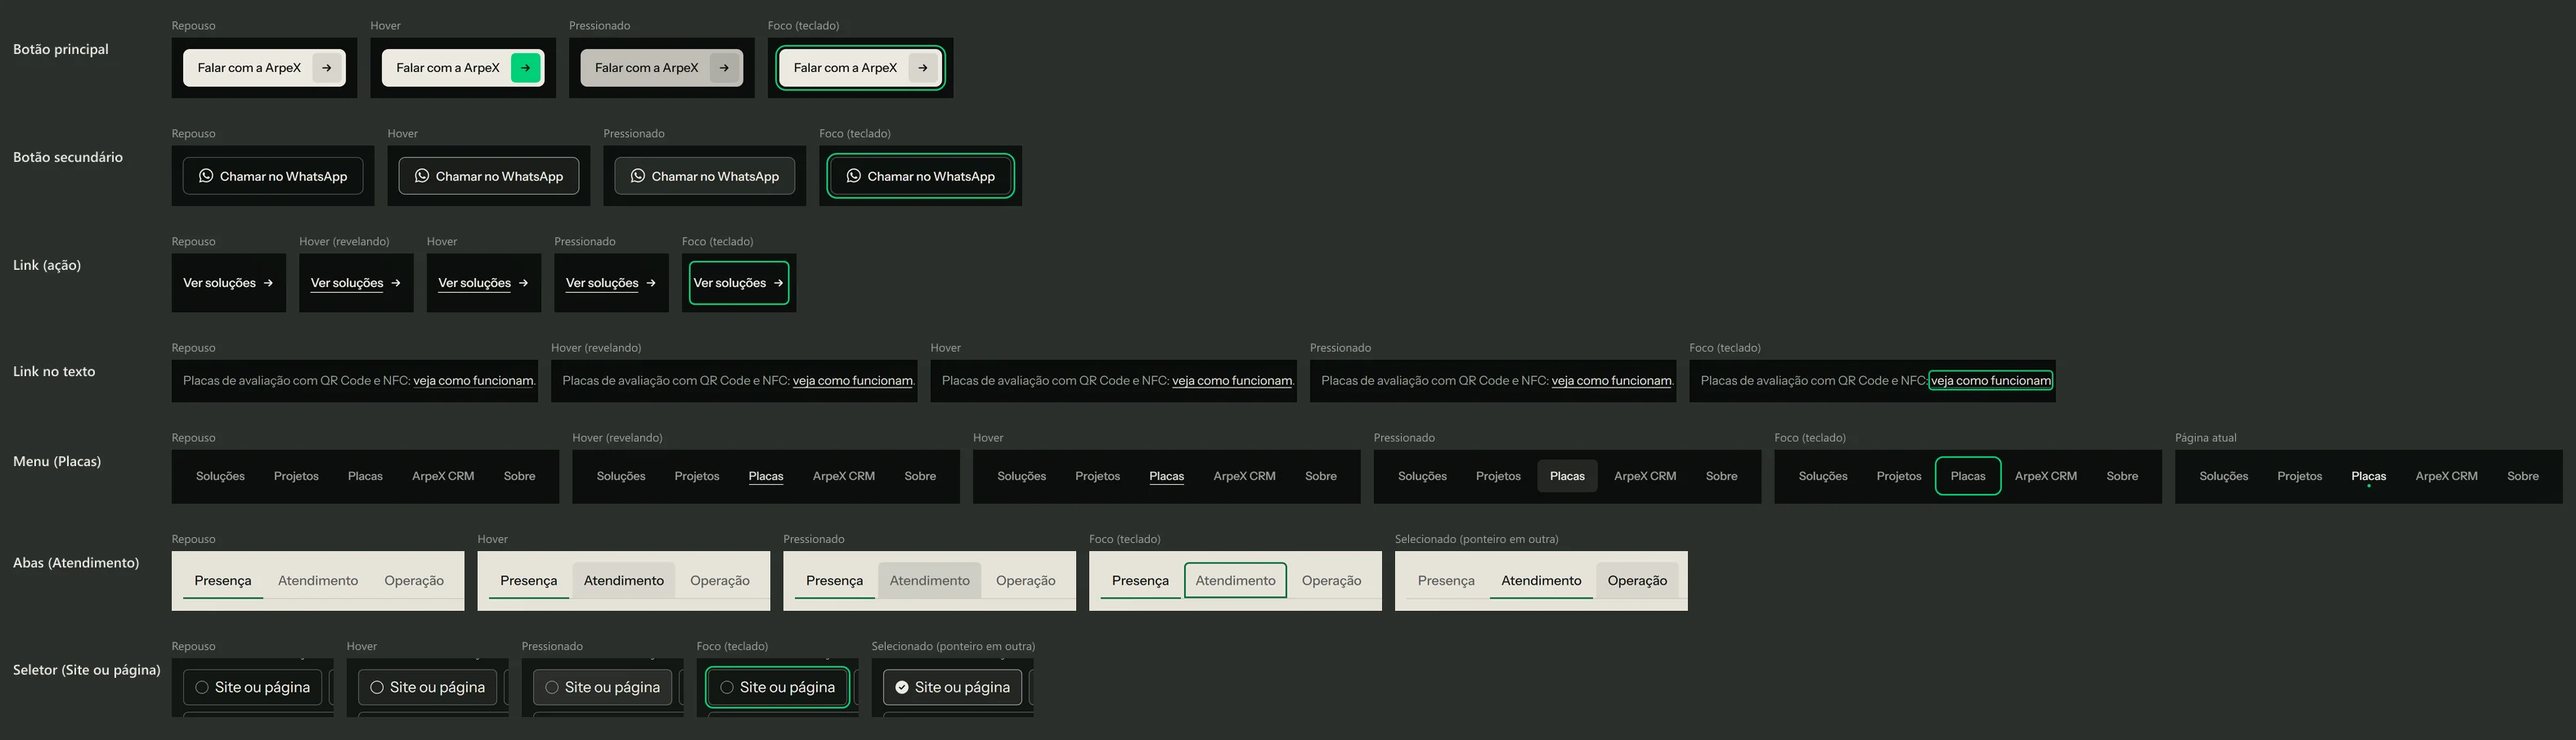
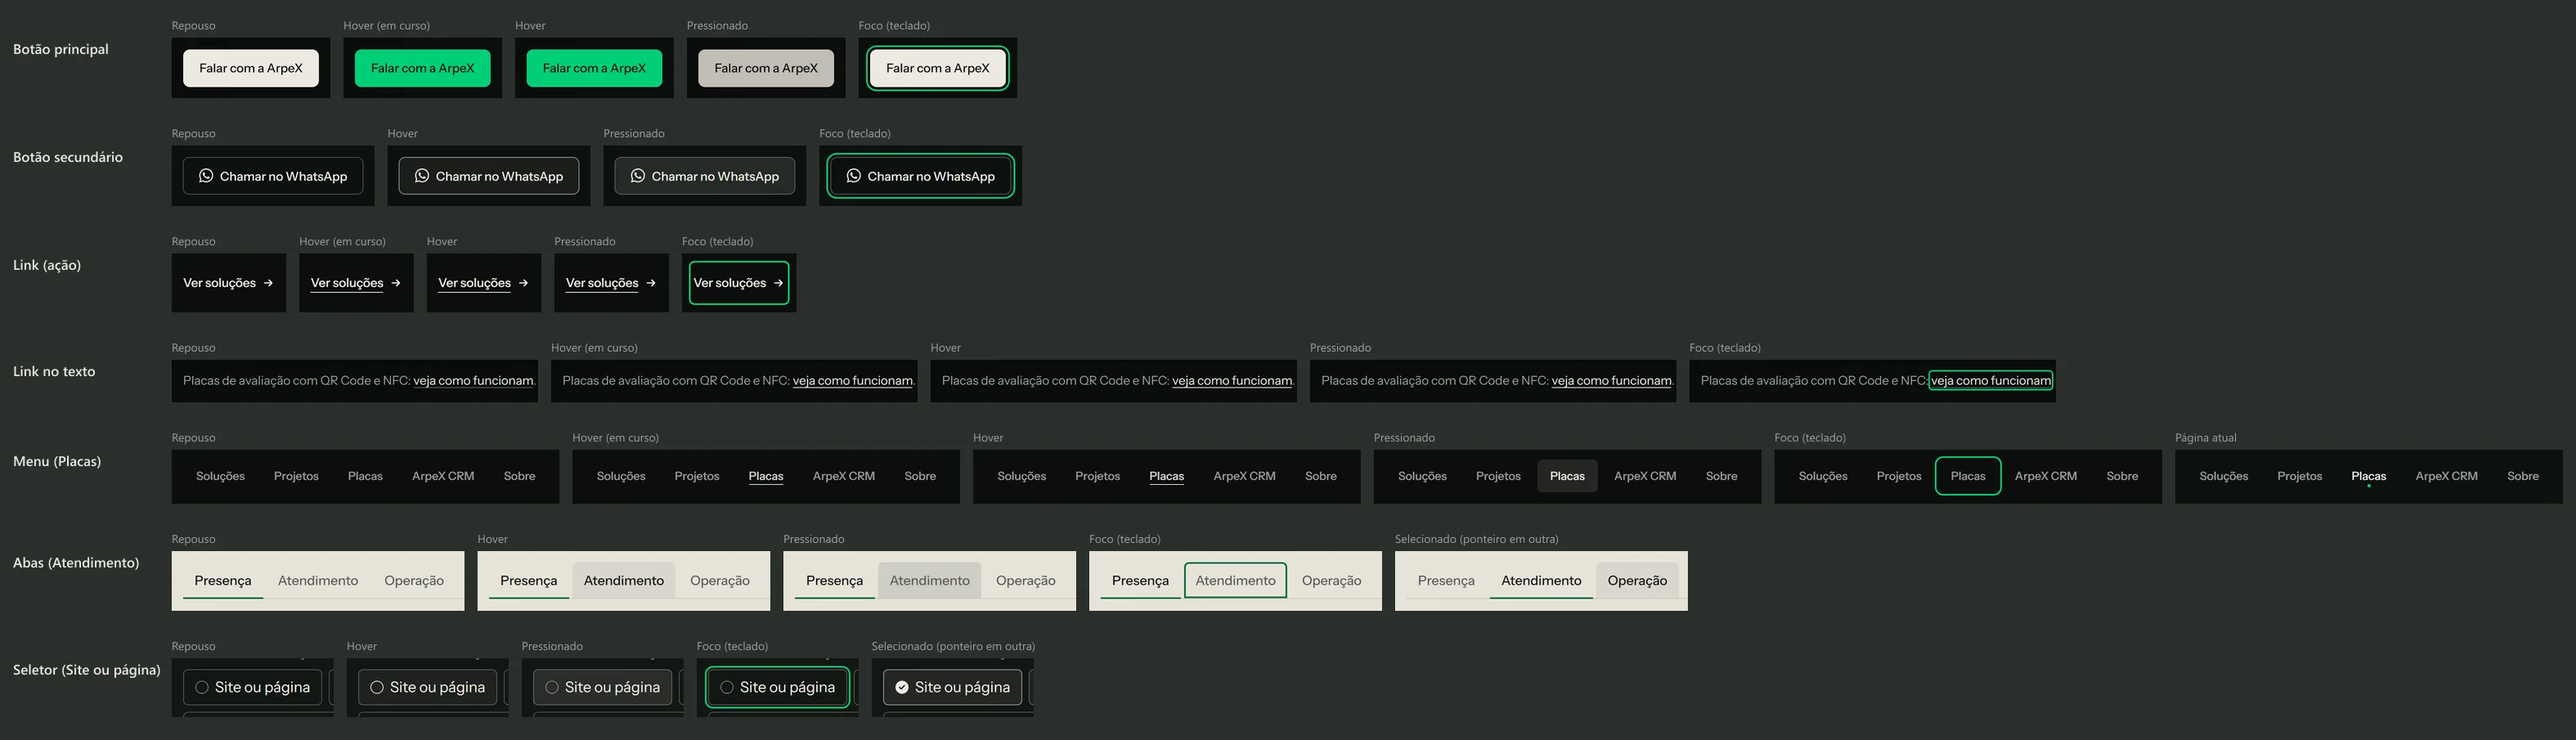
feat: elegant fill hover for primary buttons
Replace the green arrow-area hover with a fill that slides in from the left
in the section accent (brand green on dark, deep green on light, project
color on cases) and leaves to the right; the label keeps its color and the
button keeps its size and position. Reduced motion fades the fill in.

Changed region(s): [[0.0622, 0.0309, 0.4044, 0.1547], [0.2178, 0.4641, 0.2489, 0.495], [0.1244, 0.3094, 0.1556, 0.3403]]

diff --git a/src/styles/controls.css b/src/styles/controls.css
@@ -3,7 +3,8 @@
    Cada tipo de ação tem um hover próprio, sempre de cor, borda, fundo ou de
    um detalhe interno (a seta, o sublinhado): nenhum controle muda de tamanho
    ou de posição.
-   - principal: a área da seta fica verde e a seta avança 3px;
+   - principal: um preenchimento na cor de destaque desliza da esquerda para
+     a direita (e sai pela direita);
    - secundário: borda mais forte e preenchimento discreto;
    - link e menu: um sublinhado fino se revela da esquerda para a direita;
    - abas: realce suave sob o ponteiro; a linha da aba ativa não sai.
@@ -18,9 +19,11 @@
   --radius-choice: 6px; /* seletores, abas, itens do menu e rótulos de ação */
   /* forma de pílula: só etiquetas curtas de status ou categoria */
 
-  --dur-control: 200ms; /* cor, fundo, borda e a seta */
+  --dur-control: 200ms; /* cor, fundo e borda */
   --dur-reveal: 240ms; /* sublinhado que se revela */
+  --dur-fill: 460ms; /* preenchimento do botão principal */
   --ease-control: cubic-bezier(0.2, 0, 0, 1);
+  --ease-fill: cubic-bezier(0.65, 0, 0.35, 1);
 
   /* intensidade de linhas e preenchimentos, em % da cor do texto */
   --control-line: 30%;
@@ -43,10 +46,14 @@
 
   /* Preenchido na cor do texto da superfície: marfim com texto escuro no
      fundo escuro, grafite com texto claro no fundo claro. Compacto, com a
-     largura do rótulo e, na ponta direita, a área reservada da seta. Só nos
-     pontos de decisão. */
+     largura do rótulo. Só nos pontos de decisão. No hover, a cor de destaque
+     da superfície (verde da marca no escuro, verde profundo no claro, a cor
+     do projeto nos cases) preenche o botão da esquerda para a direita; o
+     texto não muda de cor e continua legível sobre ela. */
   .btn {
     position: relative;
+    isolation: isolate;
+    overflow: hidden;
     display: inline-flex;
     min-height: 2.875rem;
     align-items: center;
@@ -67,10 +74,16 @@
     transition-duration: var(--dur-control);
     transition-timing-function: var(--ease-control);
   }
-  .btn:has(> .btn-cap) {
-    gap: 0.875rem;
-    padding-left: 1.125rem;
-    padding-right: 0.3125rem;
+  .btn:not(.btn-secondary)::before {
+    content: "";
+    position: absolute;
+    inset: 0;
+    z-index: -1;
+    border-radius: inherit;
+    background-color: var(--btn-fill, var(--accent, var(--color-signal)));
+    transform: scaleX(0);
+    transform-origin: right center;
+    transition: transform var(--dur-fill) var(--ease-fill);
   }
   .btn:focus-visible {
     outline: 2px solid var(--accent, var(--color-signal));
@@ -84,19 +97,6 @@
     display: inline-flex;
     align-items: center;
     gap: 0.5rem;
-  }
-  /* área da seta: um tom abaixo do botão em repouso; verde no hover */
-  .btn-cap {
-    display: inline-grid;
-    width: 2.25rem;
-    height: 2.25rem;
-    flex-shrink: 0;
-    place-items: center;
-    border-radius: calc(var(--radius-control) - 3px);
-    background-color: color-mix(in srgb, var(--fg-inverse) 9%, transparent);
-    transition-property: color, background-color;
-    transition-duration: var(--dur-control);
-    transition-timing-function: var(--ease-control);
   }
 
   /* ---------------- Botão secundário ---------------- */
@@ -310,7 +310,6 @@
     outline-offset: -2px;
   }
 
-  /* Seta das ações: só a do botão principal se move (dentro da área verde). */
   .btn-arrow {
     transition: transform var(--dur-control) var(--ease-control);
   }
@@ -320,12 +319,11 @@
    (hover → pressionado → atual/selecionado). */
 @layer components {
   @media (hover: hover) and (pointer: fine) {
-    .btn:hover .btn-cap {
-      background-color: var(--color-signal);
-      color: var(--color-ink);
-    }
-    .btn:hover .btn-cap .btn-arrow {
-      transform: translateX(3px);
+    /* entra pela esquerda; ao sair, a origem passa para a direita e o
+       preenchimento recolhe por lá */
+    .btn:not(.btn-secondary):hover::before {
+      transform: scaleX(1);
+      transform-origin: left center;
     }
     .btn-secondary:hover,
     .icon-btn:hover {
@@ -376,6 +374,9 @@
   .btn:active {
     background-color: color-mix(in srgb, var(--fg) 80%, var(--fg-inverse));
   }
+  .btn:not(.btn-secondary):active::before {
+    background-color: color-mix(in srgb, var(--btn-fill, var(--accent, var(--color-signal))) 86%, #000);
+  }
   .btn-secondary:active,
   .nav-link:active,
   .icon-btn:active,
@@ -422,15 +423,23 @@
     opacity: 1;
   }
 
-  /* movimento reduzido: a seta não anda e o sublinhado aparece de uma vez */
+  /* movimento reduzido: o preenchimento aparece por esmaecimento, sem
+     deslizar, e o sublinhado aparece de uma vez */
   @media (prefers-reduced-motion: reduce) {
-    .btn-arrow,
+    .btn:not(.btn-secondary)::before,
+    .btn:not(.btn-secondary):hover::before {
+      transform: none;
+      opacity: 0;
+      transition: opacity var(--dur-control) linear;
+    }
     .link-label,
     .link:not(:has(.link-label)) {
       transition: none;
     }
-    .btn:hover .btn-cap .btn-arrow {
-      transform: none;
+  }
+  @media (prefers-reduced-motion: reduce) and (hover: hover) and (pointer: fine) {
+    .btn:not(.btn-secondary):hover::before {
+      opacity: 1;
     }
   }
 }

diff --git a/src/components/ui/button.tsx b/src/components/ui/button.tsx
@@ -3,7 +3,7 @@ import { cn } from "@/lib/cn";
 
 // Forma, cores e estados ficam em src/styles/controls.css.
 const styles = {
-  // preenchido na cor do texto da superfície, com a área da seta; só nos pontos de decisão
+  // preenchido na cor do texto da superfície; no hover, a cor de destaque desliza por ele
   primary: "btn",
   // contorno fino: a alternativa ao lado do principal (outro canal, como o WhatsApp)
   secondary: "btn btn-secondary",
@@ -15,7 +15,7 @@ type BaseProps = {
   children: React.ReactNode;
   variant?: keyof typeof styles;
   className?: string;
-  /** seta → depois do rótulo (secundário e link; o principal sempre tem a sua área) */
+  /** seta → depois do rótulo */
   arrow?: boolean;
 };
 
@@ -45,20 +45,12 @@ export function Arrow({ className }: { className?: string }) {
 export function Button(props: ButtonProps): React.ReactElement {
   const { children, variant = "primary", className, arrow } = props;
   const cls = cn(styles[variant], className);
-  const content =
-    variant === "primary" ? (
-      <>
-        <span className="btn-label">{children}</span>
-        <span aria-hidden className="btn-cap">
-          <Arrow />
-        </span>
-      </>
-    ) : (
-      <>
-        <span className={variant === "link" ? "link-label" : "btn-label"}>{children}</span>
-        {arrow && <Arrow />}
-      </>
-    );
+  const content = (
+    <>
+      <span className={variant === "link" ? "link-label" : "btn-label"}>{children}</span>
+      {arrow && <Arrow />}
+    </>
+  );
 
   if (typeof props.href === "string") {
     // eslint-disable-next-line @typescript-eslint/no-unused-vars

diff --git a/src/app/projetos/[slug]/page.tsx b/src/app/projetos/[slug]/page.tsx
@@ -84,6 +84,8 @@ export default async function ProjectPage({ params }: { params: Promise<{ slug: 
     "--fg-muted": palette.muted,
     "--rule": palette.dark ? "rgba(255,255,255,0.14)" : "rgba(0,0,0,0.12)",
     "--accent": palette.accent,
+    // paleta com destaque igual ao texto: o preenchimento do botão usa um tom intermediário
+    "--btn-fill": palette.accent === palette.fg ? `color-mix(in srgb, ${palette.fg} 72%, ${palette.bg})` : palette.accent,
     "--fg-inverse": palette.bg,
     background: palette.bg,
     color: palette.fg,

diff --git a/docs/placa-real/README.md b/docs/placa-real/README.md
@@ -108,11 +108,12 @@ sombra fica para trás. Entrada, deslocamento e sombra ficam em elementos separa
 
 ## Hover de cada ação
 
-Tudo em `src/styles/controls.css`. Ver `05-estados-desktop.webp` e `06-toque-celular.webp`.
+Tudo em `src/styles/controls.css`. Ver `05-estados-desktop.webp`, `06-toque-celular.webp` e
+`08-preenchimento-do-botao.webp` (o preenchimento quadro a quadro, entrando e saindo).
 
 | Controle | Repouso | Hover (ponteiro fino) | Pressionado (toque e clique) | Foco (teclado) |
 |---|---|---|---|---|
-| Botão principal | marfim compacto, com a área da seta reservada na ponta direita (um tom abaixo) | a área da seta fica verde e a seta avança 3 px; rótulo, medida e posição do botão não mudam | o tom do botão escurece | contorno de 2 px afastado 3 px |
+| Botão principal | marfim compacto (grafite nos fundos claros) | a cor de destaque da seção preenche o botão da esquerda para a direita em 460 ms e, ao sair, recolhe pela direita. Fundo escuro: verde da marca. Fundo claro: verde profundo. Cases: a cor do projeto. O texto não muda de cor; rótulo, medida e posição não mudam | o tom escurece | contorno de 2 px afastado 3 px |
 | Botão secundário (WhatsApp ao lado do principal) | contorno fino a 30% da cor do texto, sem preenchimento | contorno a 58% e preenchimento a 6%, na cor da seção | preenchimento a 11% | contorno de 2 px |
 | Link de ação ("Ver soluções", "Ver o case") | texto e seta | sublinhado de 1 px que se revela da esquerda para a direita (240 ms) | sublinhado pleno | contorno de 2 px |
 | Link dentro do texto | sublinhado a 38%, sempre visível | o sublinhado pleno se revela por cima | sublinhado pleno | contorno colado |
@@ -121,12 +122,15 @@ Tudo em `src/styles/controls.css`. Ver `05-estados-desktop.webp` e `06-toque-cel
 | Abas | texto esmaecido | realce suave do fundo (6%); a linha da aba ativa continua visível | fundo a 11% | contorno interno |
 
 **Regras gerais:**
-- **Durações:** cor, fundo, borda e seta em 200 ms.
+- **Durações:** cor, fundo e borda em 200 ms; o preenchimento do botão principal em 460 ms, com
+  entrada e saída suaves.
 - **Ponteiro:** o hover só existe com ponteiro fino (`(hover: hover) and (pointer: fine)`). No
   toque, a resposta é a troca breve de tom ao pressionar, sem nada preso depois.
-- **Movimento reduzido:** a seta não anda e o sublinhado aparece de uma vez.
-- **Botões principais:** todos ganharam a área da seta, inclusive "Abrir no WhatsApp" no
-  formulário de contato.
+- **Movimento reduzido:** o preenchimento do botão aparece por esmaecimento, sem deslizar, e o
+  sublinhado aparece de uma vez.
+- **Botões principais:** todos usam o mesmo preenchimento, inclusive "Abrir no WhatsApp" no
+  formulário de contato. Uma primeira versão reservava uma área verde para a seta no hover; ela
+  foi trocada pelo preenchimento depois da revisão.
 - **WhatsApp ao lado do principal:** em Placas, no encerramento da home e no menu do celular,
   virou botão secundário.
 

diff --git a/README.md b/README.md
@@ -15,7 +15,7 @@ npm run build && npm start
 - `src/components/hero` · `plaque` — cenas WebGL (`*-scene.ts`, importadas sob demanda) e seus posters HTML. A cena da placa usa a foto real recortada (`src/assets/plaque/placa-real.webp`, pontos de NFC e QR em `src/data/plaque.ts`).
 - `src/lib/three/stage.ts` — ciclo de vida comum das cenas 3D (DPR, pausa fora da tela, perda de contexto, descarte).
 - `src/styles/tokens.css` · `motion.css` — tipografia (Instrument Sans, uma família só), escala, superfícies e regras das cenas sticky. A condição do modo completo precisa ser igual à de `src/lib/motion/queries.ts`; `--hero-copy-max` espelha a posição da tela principal em `src/components/hero/hero-layout.ts`.
-- `src/styles/controls.css` — botões, links, menu, abas, seletores e campos: raio, cores, estados (hover, pressionado, foco, selecionado) e transições. Os componentes só escolhem a classe (`btn` com `btn-cap`, `btn-secondary`, `link` com `link-label`, `link-action`, `link-inline`, `link-muted`, `nav-link`, `tab`, `choice`, `field`, `icon-btn`); `Button` em `src/components/ui/button.tsx` tem as variantes `primary` (com a área da seta), `secondary` e `link`.
+- `src/styles/controls.css` — botões, links, menu, abas, seletores e campos: raio, cores, estados (hover, pressionado, foco, selecionado) e transições. Os componentes só escolhem a classe (`btn`, `btn-secondary`, `link` com `link-label`, `link-action`, `link-inline`, `link-muted`, `nav-link`, `tab`, `choice`, `field`, `icon-btn`); `Button` em `src/components/ui/button.tsx` tem as variantes `primary` (preenchimento no hover), `secondary` e `link`.
 - `src/assets/projects/` — capturas reais dos trabalhos (origem em `docs/refatoracao/README.md`).
 - `scripts/render-plaque-poster.mjs` — regenera o celular de demonstração (`src/assets/plaque/celular-demonstracao.webp`) a partir da cena, depois de mudar a tela em `plaque-art.ts`.
 

diff --git a/docs/revisao-visual/README.md b/docs/revisao-visual/README.md
@@ -1,7 +1,7 @@
 # Revisão visual do site institucional
 
 > Atualizado pela rodada [foto real das placas](../placa-real/README.md): a placa passou a usar fotos reais,
-> o botão principal ganhou a área da seta e o secundário voltou ao lado do principal (WhatsApp).
+> o botão principal ganhou um preenchimento no hover e o secundário voltou ao lado do principal (WhatsApp).
 
 Esta rodada parte da versão em produção (commit `4875660`). O site não foi refeito: rotas, cenas
 Three.js, animações, versões em movimento reduzido e sem WebGL, contatos e o número do WhatsApp
